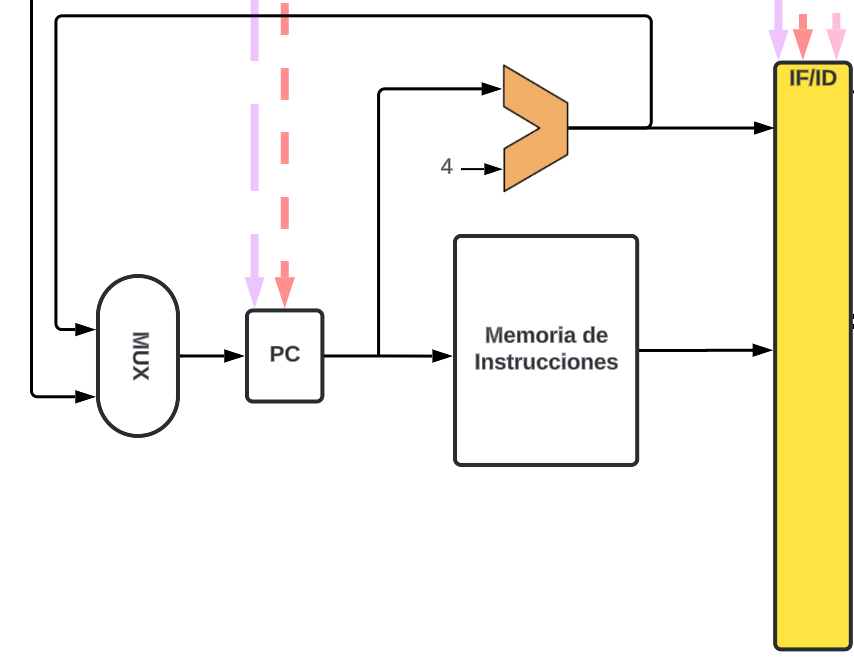
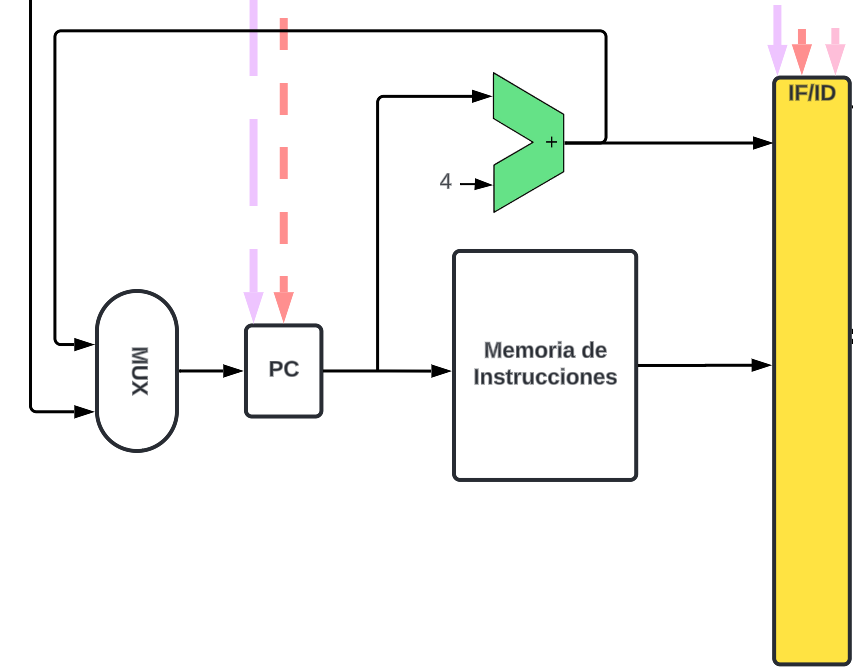
add

diff --git a/tp3/README.md b/tp3/README.md
@@ -223,6 +223,7 @@ para que sume siempre dos entradas de 32 bits y dé el resultado en su salida.
     <img src="img/image18.png" alt="Formato de instrucción Tipo J">
 </p>
 
+
 ### Program Counter
 
 Todas las
@@ -315,18 +316,31 @@ Supongamos que estamos trabajando con una memoria de 10 palabras y queremos carg
 
 ## Multiplexor
 
-<p align="center">
-    <img src="img/image22.png" alt="b">
-</p>
+<div style="display: flex; align-items: center; gap: 10px;">
+    <img src="img/image22.png" alt="b" style="width: 200px; height: auto;">
+    <p>
+        El valor escrito en el PC puede provenir de cualquiera de los dos sumadores, el dato
+        escrito en el banco de registros puede provenir de la ALU o de la memoria de
+        datos, y la segunda entrada de la ALU proviene de un registro o del campo inmediato
+        de la instrucción. En la práctica, estas líneas de datos no pueden conectarse
+        directamente; debe añadirse un elemento que seleccione entre los múltiples orígenes
+        y dirija una de estas fuentes al destino. Esta selección se realiza comúnmente
+        mediante un dispositivo denominado multiplexor.
+    </p>
+</div>
 
-El valor
-escrito en el PC puede provenir de cualquiera de los dos sumadores, el dato
-escrito en el banco de registros puede provenir de la ALU o de la memoria de
-datos, y la segunda entrada de la ALU proviene de un registro o del campo inmediato
-de la instrucción. En la práctica, estas líneas de datos no pueden conectarse
-directamente; debe añadirse un elemento que seleccione entre los múltiples orígenes
-y dirija una de estas fuentes al destino. Esta selección se realiza comúnmente
-mediante un dispositivo denominado multiplexor.
+
+## Sumador
+
+<div style="display: flex; align-items: center; gap: 10px;">
+ <img src="img/image23.png" alt="b" style="width: 200px; height: auto;">
+    <p>
+        Se necesita un sumador encargado de incrementar el PC
+        para que apunte a la dirección de la siguiente instrucción. Este sumador, que es
+        combinacional, se puede construir a partir de la ALU.
+    </p>
+   
+</div>
 
 
 ---
